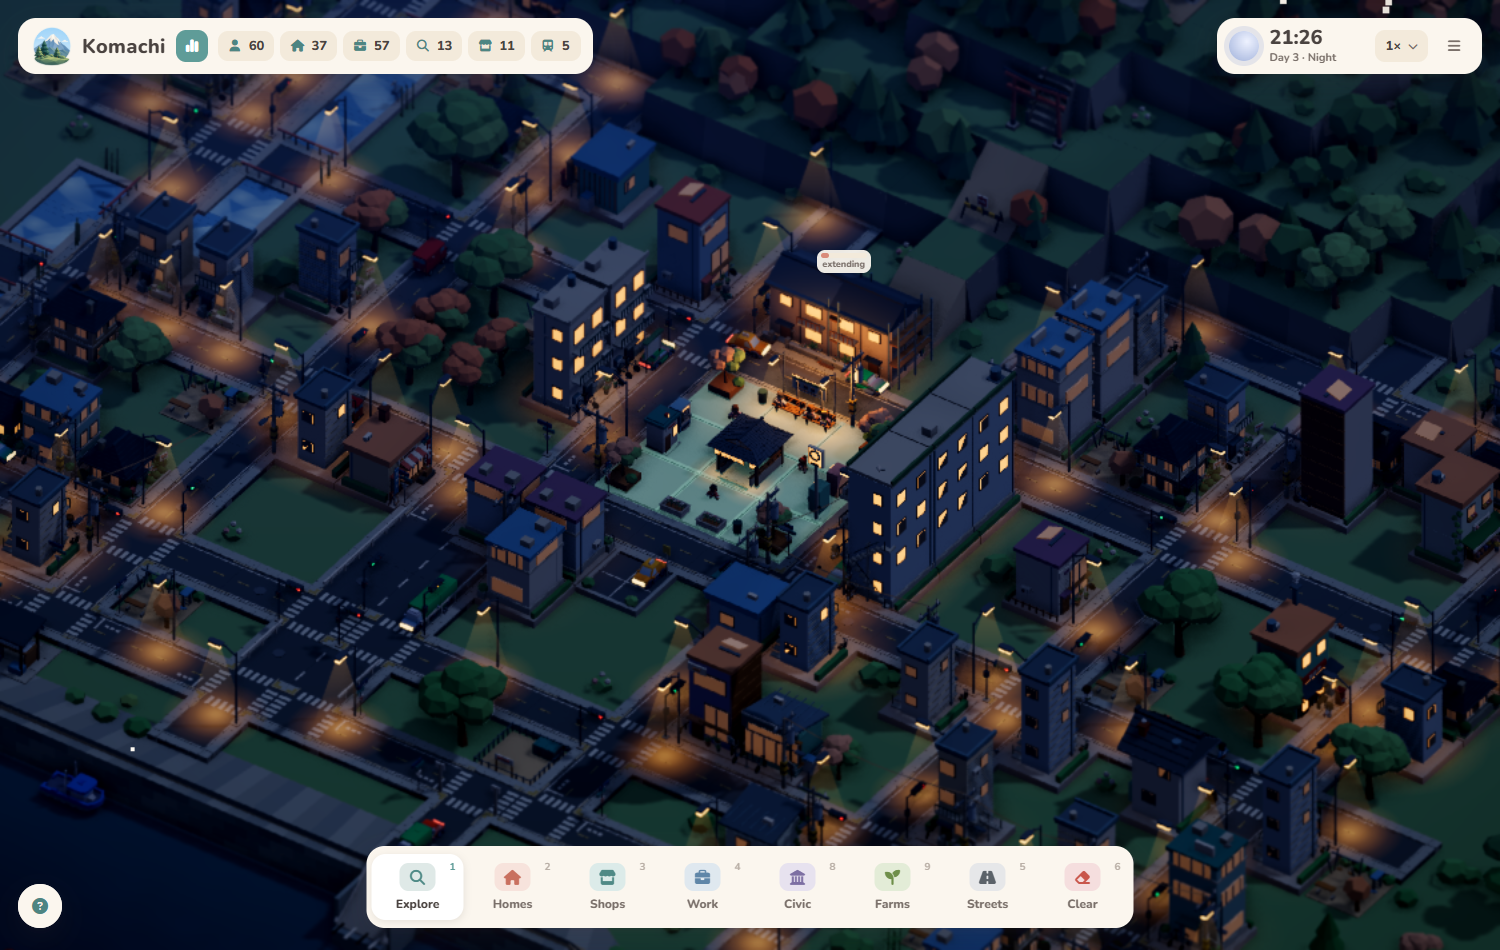
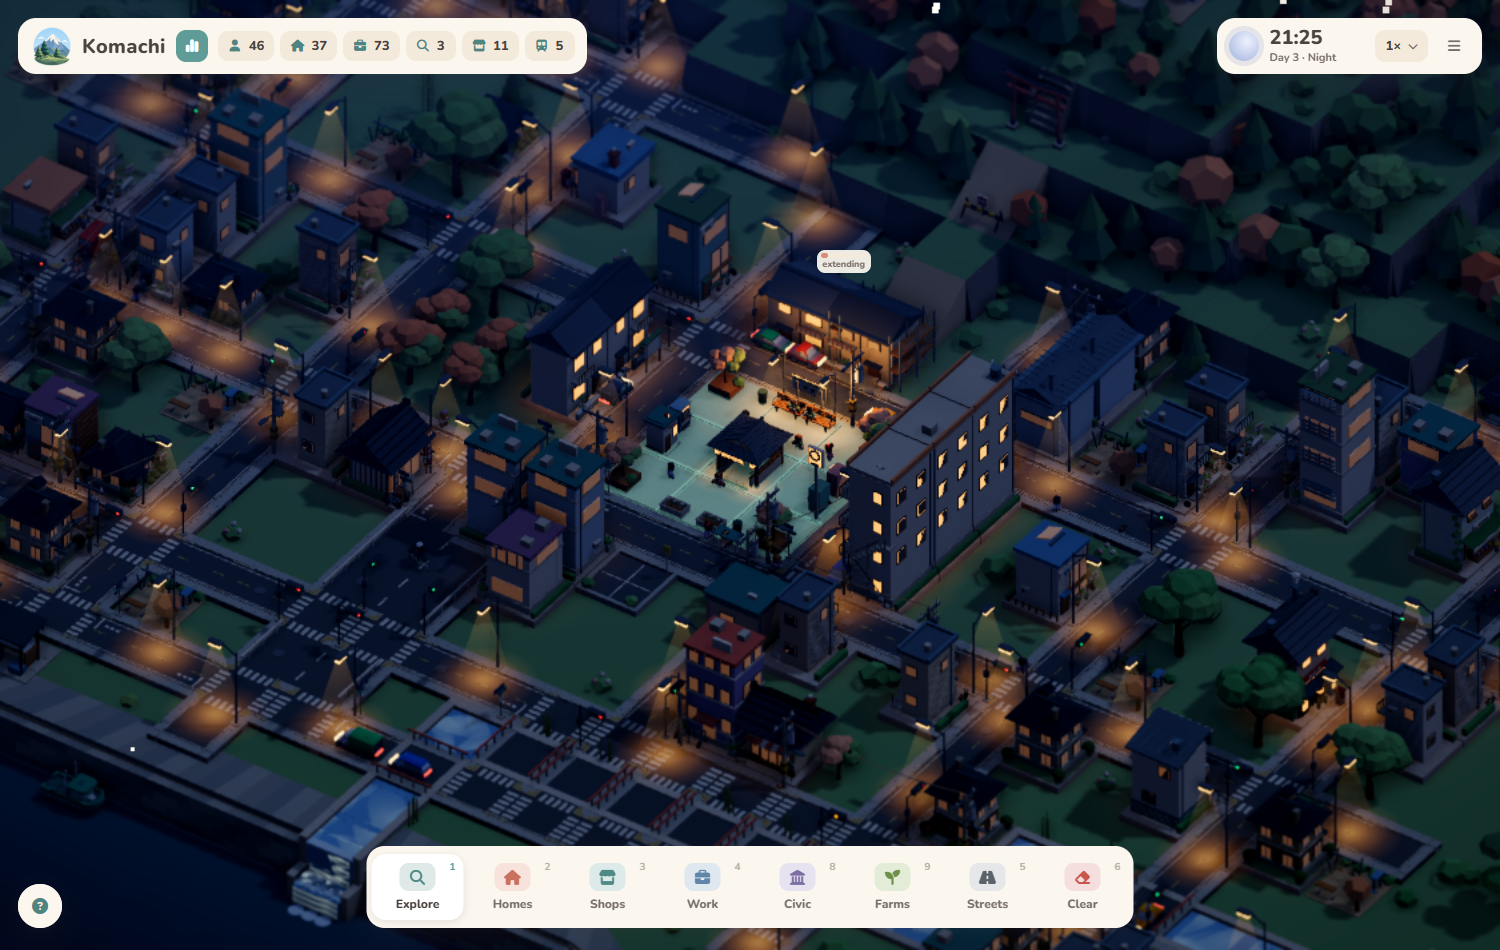
Canal keeps clear of the jetty; README screenshots retaken

diff --git a/src/island.js b/src/island.js
@@ -350,6 +350,8 @@ const canalCells = new Set(), canalOrder = [], coastCells = new Set(), canalMout
     }
     // never run along the coast road: two consecutive canal cells on it would make a bridge with water both sides
     for (let k = 0; k + 1 < cellsHere.length && !bad; k++) if (coastCells.has(key(...cellsHere[k])) && coastCells.has(key(...cellsHere[k + 1]))) bad = true;
+    // on the harbour island the canal keeps clear of the jetty: its mouth on the quay is never within the jetty's reach
+    if (harborIsland && pierInfo && !bad) for (const [i, j] of cellsHere) if (Math.abs(cx(i) - pierInfo.root.x) < 2.4 && cz(j) > QUAY_Z - 4.5) { bad = true; break; }
     // the canal may only touch the coast at its two ends: a run alongside the beach would spill over at every cell
     for (let k = 3; k + 3 < cellsHere.length && !bad; k++) if (coastDist(cx(cellsHere[k][0]), cz(cellsHere[k][1])) < 1.8) bad = true;
     if (bad || cellsHere.length < 8) continue;

diff --git a/CHANGELOG.md b/CHANGELOG.md
@@ -47,6 +47,9 @@ Phases 4 and 4.5 plus the polish that went with them.
 
 ### Fixed
 
+- Harbour island (2026-09-25): on some seeds the canal reached the quay right at the jetty, so the waterfall poured through
+  the jetty's root. Canal candidates whose cells come within the jetty's reach on the quay side are rejected; twelve seeds checked
+  keep the mouth at least 3.7 units away.
 - Komachi Station (2026-09-25): everyone off a train now comes up the pavilion's stairs onto the plaza, and everyone leaving
   (newcomers on the last train, commuters, tourists, building crews) walks to the entrance and down them, instead of appearing
   or vanishing on the plaza in front of the pavilion. `STATION.stairTop` / `stairFoot` and `stationStairs(up)` in world.js;
